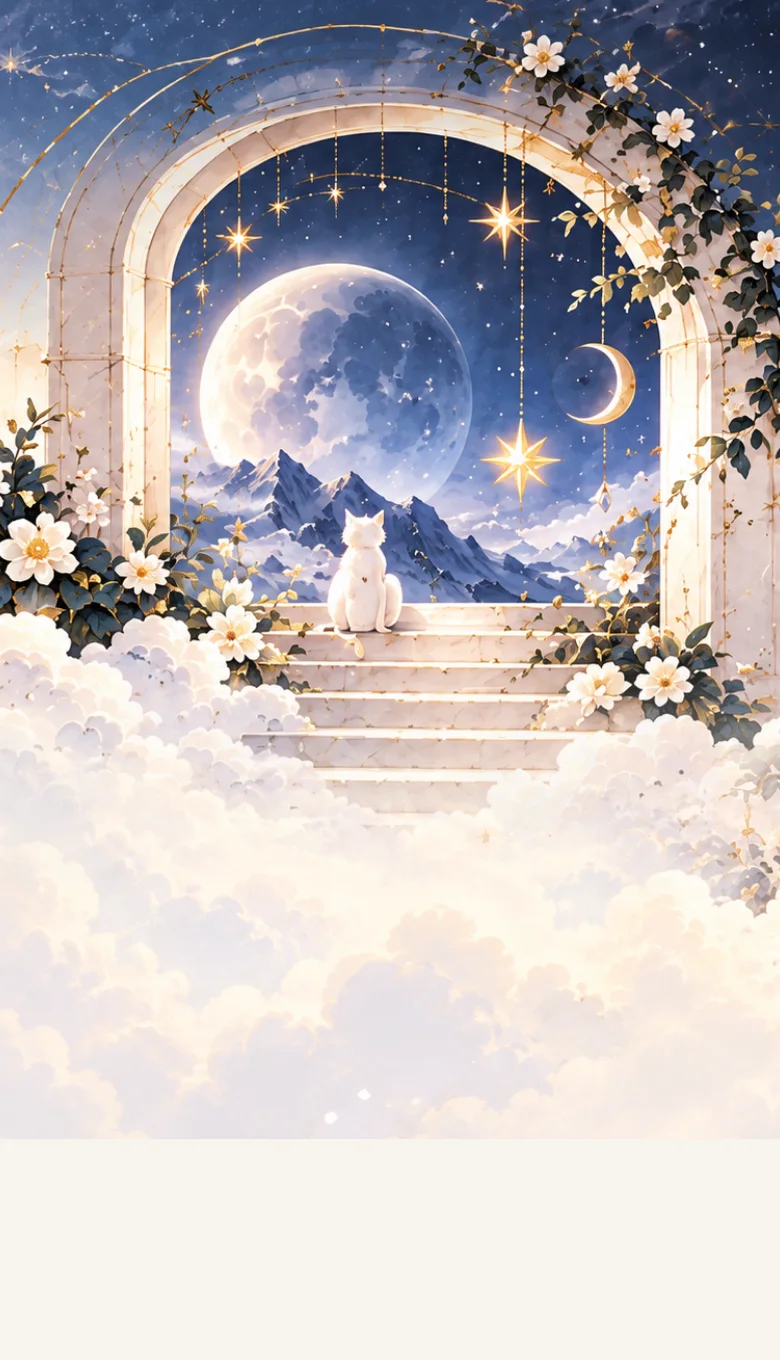
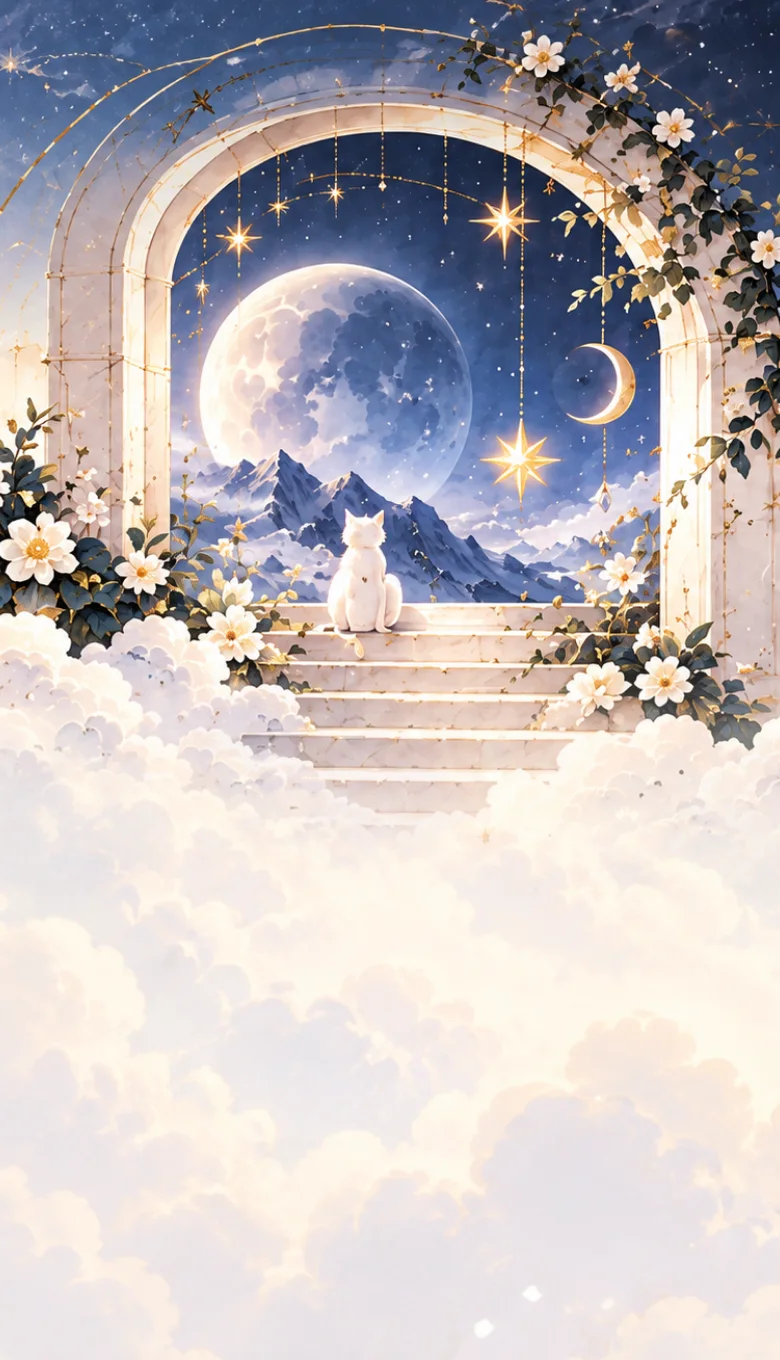
我的星空:手机 Hero 置中封面、出生资料移到星盘上方、星盘放大 (#66)
* 我的星空:手机 Hero 文字改成置中版面(大标题、My Birth Chart 手写副标、✦ 细线、出生资料胶囊)

Claude-Session: https://claude.ai/code/session_01KWTtJBbV1tTkbqudQevH8t

* 我的星空:手机 Hero 拿掉 My Birth Chart 英文副标

Claude-Session: https://claude.ai/code/session_01KWTtJBbV1tTkbqudQevH8t

* 我的星空:手机 Hero 出生资料胶囊缩小

Claude-Session: https://claude.ai/code/session_01KWTtJBbV1tTkbqudQevH8t

* 我的星空:手机 Hero 文字整体缩小一号(标题、描述、英文句、出生资料胶囊)

Claude-Session: https://claude.ai/code/session_01KWTtJBbV1tTkbqudQevH8t

* 我的星空:出生资料从 Hero 搬到星盘上方(「你的出生星盘」标题 + 两端缺角的横幅:姓名、日期、时间、出生地)

Claude-Session: https://claude.ai/code/session_01KWTtJBbV1tTkbqudQevH8t

* 我的星空:出生星盘横幅字体缩小

Claude-Session: https://claude.ai/code/session_01KWTtJBbV1tTkbqudQevH8t

* 我的星空:手机 Hero 文字区不再是白底,直接落在 Hero 图的云层上(素材下半改成完整云层、奶油渐变调淡)

Claude-Session: https://claude.ai/code/session_01KWTtJBbV1tTkbqudQevH8t

* 我的星空:星盘放大(手机 96vw、桌机盘面那一栏加宽)

Claude-Session: https://claude.ai/code/session_01KWTtJBbV1tTkbqudQevH8t

---------

Changed region(s): [[0.8615, 0.525, 1.0, 0.6794]]

diff --git a/app.html b/app.html
@@ -963,21 +963,40 @@
      标题与文字都在 hero 里,落在左下的云上。只作用在 ≤767px,桌机不动。 */
   @media(max-width:767px){
     #dpage.sky-page .dp-hero{
-      position:relative;overflow:hidden;min-height:max(650px,164vw);box-sizing:border-box;
+      position:relative;overflow:hidden;min-height:max(625px,160vw);box-sizing:border-box;
       display:flex;flex-direction:column;
       /* 手机专用的直式版本(sky-hero-arch-m.webp):上半拱门场景、下半是同一张图自己的云层,
          已在素材里融成一张。上面再叠一层很柔的奶油色渐变,只托住文字区 */
       background:
-        linear-gradient(to bottom,transparent 44%,rgba(248,244,238,.4) 54%,rgba(248,244,238,.72) 70%,rgba(248,244,238,.8) 88%,rgba(248,244,238,.3) 100%),
+        linear-gradient(to bottom,transparent 46%,rgba(250,246,240,.25) 58%,rgba(250,246,240,.45) 72%,rgba(250,246,240,.5) 100%),
         url(assets/atmos/sky-hero-arch-m.webp) center top / 100% auto no-repeat,
         #f8f4ee;
       padding-bottom:20px
     }
     #dpage.sky-page .dp-hero-grid{padding:0 calc(7% - 23px);margin:auto 0 0;width:auto;max-width:none;align-self:stretch}
-    #dpage.sky-page h1.dp-title{margin-bottom:10px}
-    #dpage.sky-page .dp-hero .dp-sub{font-size:14px;line-height:1.85}
-    #dpage.sky-page .sky-latin{margin-top:10px;font-size:14px;line-height:1.6}
-    #dpage.sky-page .sky-meta{margin-top:14px;padding:6px 16px}
+    /* 文字区置中(依设计稿):大标题 → ✦ 细线 → 描述 → 英文句 → 出生资料胶囊 */
+    #dpage.sky-page .dp-hero-grid{text-align:center}
+    #dpage.sky-page h1.dp-title{
+      margin:0;font-family:var(--dp-serif);font-weight:700;font-size:28px;letter-spacing:.12em;line-height:1.3
+    }
+    #dpage.sky-page .dp-hero .dp-sub{
+      max-width:none;margin:0 auto;font-size:13px;line-height:1.8;letter-spacing:.05em;color:#2c2d48
+    }
+    #dpage.sky-page .dp-hero .dp-sub::before{
+      content:"✦";display:block;width:160px;margin:8px auto 10px;font-size:11px;line-height:1;color:#c49848;
+      background:
+        linear-gradient(90deg,rgba(196,152,72,0),rgba(196,152,72,.6)) left center / calc(50% - 14px) 1px no-repeat,
+        linear-gradient(90deg,rgba(196,152,72,.6),rgba(196,152,72,0)) right center / calc(50% - 14px) 1px no-repeat
+    }
+    #dpage.sky-page .sky-latin{margin-top:10px;font-size:13px;line-height:1.55;color:#8a86a0}
+    #dpage.sky-page .sky-meta{
+      display:flex;align-items:center;justify-content:center;gap:14px;width:fit-content;
+      margin:14px auto 0;padding:6px 18px;font-size:11.5px;letter-spacing:.05em;color:#23264f;
+      background:rgba(255,252,246,.88);border:1px solid rgba(201,178,140,.5);
+      box-shadow:0 8px 22px rgba(80,60,40,.08)
+    }
+    #dpage.sky-page .sky-meta::before{content:"✦";margin-right:8px;font-size:10px;color:#c49848}
+    #dpage.sky-page .dp-hero .sky-meta{display:block}
   }
   /* 新 hero 图的右上方是深蓝夜空:桌机上导航改成浅色字,才读得到 */
   @media(min-width:1101px){
@@ -1606,12 +1625,61 @@
     margin-left:clamp(12px,2vw,28px);font-family:var(--dp-display);font-style:italic;font-weight:400;
     font-size:clamp(22px,3vw,40px);letter-spacing:.02em;color:rgba(190,160,110,.45);vertical-align:-4px
   }
+  /* 你的出生星盘:标题两侧金线 + ✦,下面一条两端缺角的象牙横幅 */
+  #dpage .sky-overview .ov-birth{text-align:center;margin:0 auto clamp(6px,1vw,14px);max-width:640px}
+  #dpage .sky-overview .ov-bt{
+    display:flex;align-items:center;justify-content:center;gap:14px;margin:0;
+    font-family:var(--dp-serif);font-weight:700;font-size:clamp(20px,2.2vw,26px);letter-spacing:.16em;color:#23264f
+  }
+  #dpage .sky-overview .ov-bt i{
+    flex:0 1 110px;height:1px;position:relative;background:linear-gradient(90deg,rgba(196,152,72,0),rgba(196,152,72,.7))
+  }
+  #dpage .sky-overview .ov-bt i:last-child{background:linear-gradient(90deg,rgba(196,152,72,.7),rgba(196,152,72,0))}
+  #dpage .sky-overview .ov-bt i::after{
+    content:"✦";position:absolute;top:50%;transform:translateY(-50%);right:-4px;font-size:9px;font-style:normal;color:#c49848
+  }
+  #dpage .sky-overview .ov-bt i:last-child::after{right:auto;left:-4px}
+  #dpage .sky-overview .ov-bs{display:block;margin:4px 0 8px;font-size:15px;line-height:1;color:#c49848}
+  #dpage .sky-overview .ov-band{
+    position:relative;display:flex;align-items:center;justify-content:center;flex-wrap:wrap;gap:6px 16px;
+    padding:10px 36px;font-family:var(--dp-serif);font-size:12.5px;color:#2c2d48;
+    background:linear-gradient(180deg,rgba(255,253,249,.95),rgba(250,246,240,.92));
+    border:1px solid rgba(201,178,140,.45);box-shadow:0 8px 24px rgba(80,60,40,.07);
+    clip-path:polygon(14px 0,calc(100% - 14px) 0,100% 50%,calc(100% - 14px) 100%,14px 100%,0 50%)
+  }
+  #dpage .sky-overview .ov-band::before,#dpage .sky-overview .ov-band::after{
+    content:"✦";position:absolute;top:50%;transform:translateY(-50%);font-size:10px;color:#c49848
+  }
+  #dpage .sky-overview .ov-band::before{left:18px}
+  #dpage .sky-overview .ov-band::after{right:18px}
+  #dpage .sky-overview .ov-band .nm{font-size:clamp(15px,1.4vw,17px);font-weight:600;letter-spacing:.02em;color:#23264f}
+  #dpage .sky-overview .ov-band .v{font-variant-numeric:tabular-nums;letter-spacing:.03em}
+  #dpage .sky-overview .ov-band b{font-weight:400;font-size:9px;color:#c49848}
+  @media(max-width:767px){
+    #dpage .sky-overview .ov-bt{font-size:19px;gap:10px}
+    #dpage .sky-overview .ov-bt i{flex-basis:60px}
+    #dpage .sky-overview .ov-band{padding:8px 28px;gap:2px 8px;font-size:11px}
+    #dpage .sky-overview .ov-band .nm{font-size:13.5px}
+    #dpage .sky-overview .ov-band b{font-size:8px}
+    #dpage .sky-overview .ov-band::before,#dpage .sky-overview .ov-band::after{font-size:8px}
+    #dpage .sky-overview .ov-band::before{left:12px}
+    #dpage .sky-overview .ov-band::after{right:12px}
+    /* 窄萤幕:姓名、日期、时间一行,出生地自己一行,不留一颗落单的 ✦ */
+    #dpage .sky-overview .ov-band b:last-of-type{display:none}
+    #dpage .sky-overview .ov-band .v:last-child{flex-basis:100%}
+    #dpage .sky-overview{margin-top:18px}
+    /* 盘面放大:突破页面左右留白,占约 96vw,置中、不裁切 */
+    #dpage.sky-page .sky-overview .isky2{
+      width:96vw;max-width:96vw;padding:0;
+      margin-left:calc(50% - 48vw);margin-right:calc(50% - 48vw)
+    }
+  }
   /* 星盘一览 */
   #dpage .sky-overview{
-    position:relative;display:grid;grid-template-columns:minmax(0,1.1fr) minmax(0,.9fr);
-    gap:clamp(20px,3vw,48px);align-items:center;margin-top:clamp(-120px,-8vw,-40px)
+    position:relative;display:grid;grid-template-columns:minmax(0,1.3fr) minmax(0,.9fr);
+    gap:clamp(20px,3vw,48px);align-items:center;margin-top:clamp(24px,3vw,44px)
   }
-  #dpage .sky-overview .isky2{max-width:min(620px,100%);margin:0 auto}
+  #dpage .sky-overview .isky2{max-width:min(680px,100%);margin:0 auto;padding:4px}
   #dpage .sky-overview .ov-panel{position:relative}
   #dpage .sky-overview .ov-moon{
     position:absolute;right:0;top:-40px;width:clamp(90px,10vw,140px);aspect-ratio:1;pointer-events:none;
@@ -14376,7 +14444,17 @@ window.Guide = (function () {
           (pl.retro ? ' <i class="rx">R</i>' : "") + '</span></div>';
       }).join("");
       body += '<section class="sky-overview">' +
-        '<div class="ov-wheel"><div class="isky2" id="dpFullWheel" role="img" aria-label="' +
+        '<div class="ov-wheel">' +
+        /* 出生资料从 hero 搬到这里(依设计稿):标题 + 一条两端缺角的横幅 */
+        '<div class="ov-birth"><h2 class="ov-bt"><i aria-hidden="true"></i>' +
+        esc0(dpT("你的出生星盘", "Your birth chart")) + '<i aria-hidden="true"></i></h2>' +
+        '<span class="ov-bs" aria-hidden="true">✦</span>' +
+        '<div class="ov-band">' + [c.nick || "", (c.date || "").replace(/-/g, " · "),
+          c.unknownTime ? "" : (c.time || ""), c.placeLabel || c.city || ""]
+          .filter(Boolean).map(function (x, i) {
+            return '<span class="' + (i ? "v" : "nm") + '">' + esc0(x) + '</span>';
+          }).join('<b aria-hidden="true">✦</b>') + '</div></div>' +
+        '<div class="isky2" id="dpFullWheel" role="img" aria-label="' +
         esc0(dpT("完整星盘", "Full natal chart")) + '"></div></div>' +
         '<div class="ov-panel"><span class="ov-moon" aria-hidden="true"></span>' +
         '<h2>' + esc0(dpT("星盘一览", "Your chart at a glance")) + '</h2>' +
@@ -14386,8 +14464,7 @@ window.Guide = (function () {
         dpT("隐藏相位线", "Hide aspects") + '</button></div>' +
         '<div class="ov-table">' + ovRows + '</div></div></section>';
       heroLead =
-        '<div class="sky-latin">A map of the sky,<br>for the one and only you.</div>' +
-        (sub ? '<div class="sky-meta">' + sub + '</div>' : "");
+        '<div class="sky-latin">A map of the sky,<br>for the one and only you.</div>';
 
       /* —— 2. 四个核心 ——
          太阳 / 月亮 取自 dpPlacement,上升 / 天顶 取自 res.ang,
